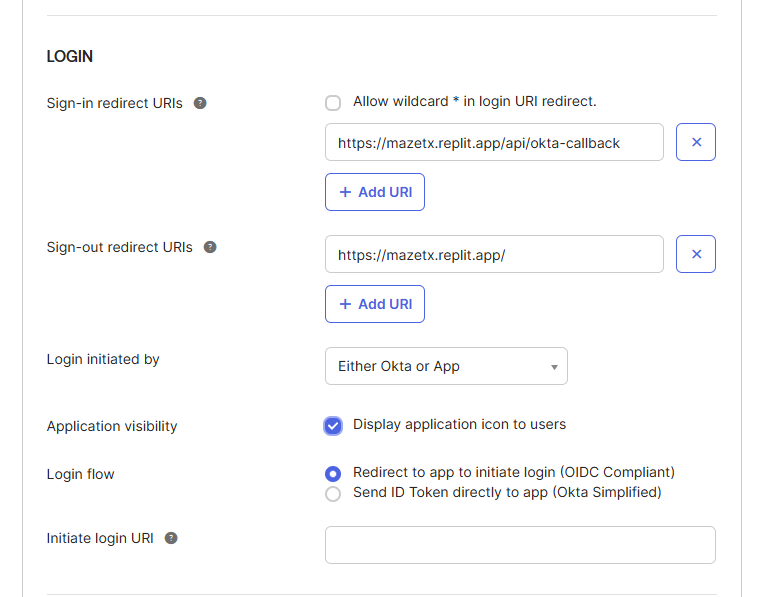
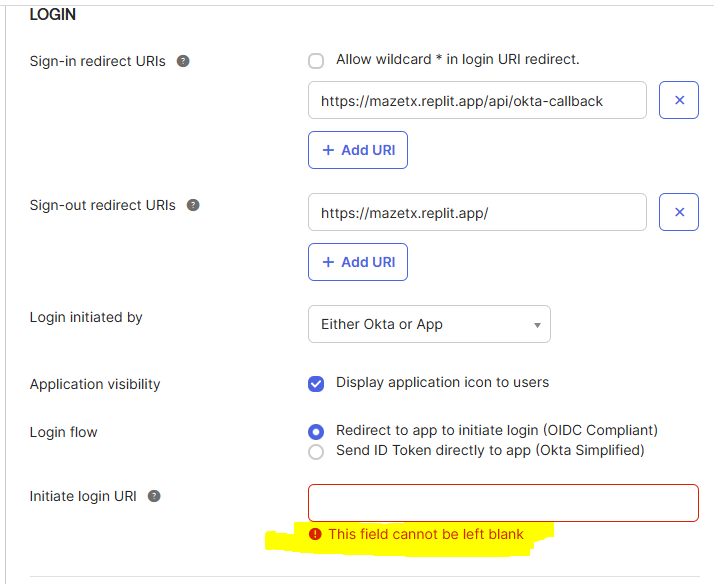
Improve landing page and streamline the single sign-on authentication flow
Updates the landing page with feature highlights and modifies the OKTA SSO login process by redirecting to the /api/login endpoint.

Replit-Commit-Author: Agent
Replit-Commit-Session-Id: 8936db9b-b075-46ff-a2f4-1b72c59773b4
Replit-Commit-Screenshot-Url: https://storage.googleapis.com/screenshot-production-us-central1/de508e81-2754-4e33-bdcb-fb7bc5438f94/3ca1f682-46b8-4d7c-acc1-3046d1fec444.jpg

diff --git a/client/src/pages/landing.tsx b/client/src/pages/landing.tsx
@@ -1,30 +1,11 @@
-import { useState } from "react";
 import { Button } from "@/components/ui/button";
-import { Input } from "@/components/ui/input";
-import { Label } from "@/components/ui/label";
-import { Card, CardContent, CardDescription, CardFooter, CardHeader, CardTitle } from "@/components/ui/card";
-import { useAuth } from "@/hooks/use-auth";
-import { Loader2 } from "lucide-react";
+import { Card, CardContent, CardDescription, CardHeader, CardTitle } from "@/components/ui/card";
+import { Shield, Users, Settings, BarChart3 } from "lucide-react";
 
 export default function Landing() {
-  const [username, setUsername] = useState("");
-  const [password, setPassword] = useState("");
-  const { loginMutation } = useAuth();
-
-  const handleLogin = (e: React.FormEvent) => {
-    e.preventDefault();
-    loginMutation.mutate({ username, password });
-  };
-
   const handleSSOLogin = () => {
-    // Direct OKTA authorization URL
-    const authUrl = `https://mazetx.okta.com/oauth2/default/v1/authorize?` +
-      `client_id=0oarrurqf9mvVKYRj4x7&` +
-      `response_type=code&` +
-      `scope=openid email profile&` +
-      `redirect_uri=${encodeURIComponent('https://mazetx.replit.app/api/okta-callback')}&` +
-      `state=oauth_state`;
-    window.location.href = authUrl;
+    // Redirect to the server's login endpoint which handles OKTA OAuth
+    window.location.href = '/api/login';
   };
 
   return (
@@ -38,96 +19,87 @@ export default function Landing() {
                 Maze User
                 <span className="text-blue-600 dark:text-blue-400"> Management</span>
               </h1>
-              <p className="text-xl text-gray-600 dark:text-gray-300">
-                Streamline your OKTA tenant administration with our comprehensive user management platform. Efficiently manage users, groups, and access controls with intelligent automation.
+              <p className="text-xl text-gray-600 dark:text-gray-300 leading-relaxed">
+                Comprehensive admin dashboard for advanced user authentication and access management with sophisticated monitoring capabilities.
               </p>
             </div>
-            
-            <div className="flex flex-wrap gap-6 text-sm text-gray-500 dark:text-gray-400">
-              <div className="flex items-center gap-2">
-                <div className="w-2 h-2 bg-green-500 rounded-full"></div>
-                <span>OKTA Integration</span>
+
+            {/* Feature Grid */}
+            <div className="grid grid-cols-2 gap-6">
+              <div className="flex items-center space-x-3">
+                <div className="flex-shrink-0">
+                  <Shield className="h-8 w-8 text-blue-600 dark:text-blue-400" />
+                </div>
+                <div>
+                  <h3 className="font-semibold text-gray-900 dark:text-white">OKTA Integration</h3>
+                  <p className="text-sm text-gray-600 dark:text-gray-300">SSO & Identity Management</p>
+                </div>
               </div>
-              <div className="flex items-center gap-2">
-                <div className="w-2 h-2 bg-blue-500 rounded-full"></div>
-                <span>Advanced Filtering</span>
+              
+              <div className="flex items-center space-x-3">
+                <div className="flex-shrink-0">
+                  <Users className="h-8 w-8 text-blue-600 dark:text-blue-400" />
+                </div>
+                <div>
+                  <h3 className="font-semibold text-gray-900 dark:text-white">User Operations</h3>
+                  <p className="text-sm text-gray-600 dark:text-gray-300">Complete CRUD Management</p>
+                </div>
               </div>
-              <div className="flex items-center gap-2">
-                <div className="w-2 h-2 bg-purple-500 rounded-full"></div>
-                <span>Secure Access</span>
+              
+              <div className="flex items-center space-x-3">
+                <div className="flex-shrink-0">
+                  <Settings className="h-8 w-8 text-blue-600 dark:text-blue-400" />
+                </div>
+                <div>
+                  <h3 className="font-semibold text-gray-900 dark:text-white">Access Control</h3>
+                  <p className="text-sm text-gray-600 dark:text-gray-300">Group & Permission Management</p>
+                </div>
               </div>
+              
+              <div className="flex items-center space-x-3">
+                <div className="flex-shrink-0">
+                  <BarChart3 className="h-8 w-8 text-blue-600 dark:text-blue-400" />
+                </div>
+                <div>
+                  <h3 className="font-semibold text-gray-900 dark:text-white">Activity Monitoring</h3>
+                  <p className="text-sm text-gray-600 dark:text-gray-300">30-Day Activity Logging</p>
+                </div>
+              </div>
+            </div>
+
+            <div className="bg-blue-50 dark:bg-blue-900/20 rounded-lg p-6">
+              <h3 className="font-semibold text-blue-900 dark:text-blue-300 mb-2">Key Features</h3>
+              <ul className="space-y-2 text-blue-800 dark:text-blue-200">
+                <li>• Advanced user search and filtering capabilities</li>
+                <li>• Employee Type to MTX group mapping</li>
+                <li>• Comprehensive profile field management</li>
+                <li>• Real-time synchronization with OKTA</li>
+                <li>• Responsive design with dark mode support</li>
+              </ul>
             </div>
           </div>
 
-          {/* Right Column - Login Form */}
+          {/* Right Column - SSO Login */}
           <div className="flex justify-center">
             <Card className="w-full max-w-md">
-              <CardHeader>
-                <CardTitle className="text-2xl text-center">Admin Login</CardTitle>
+              <CardHeader className="space-y-1">
+                <CardTitle className="text-2xl font-bold text-center">Access Dashboard</CardTitle>
                 <CardDescription className="text-center">
-                  Sign in to access the user management dashboard
+                  Sign in with your organization credentials to access the admin dashboard
                 </CardDescription>
               </CardHeader>
-              <form onSubmit={handleLogin}>
-                <CardContent className="space-y-4">
-                  <div className="space-y-2">
-                    <Label htmlFor="username">Username</Label>
-                    <Input
-                      id="username"
-                      type="text"
-                      value={username}
-                      onChange={(e) => setUsername(e.target.value)}
-                      placeholder="Enter your username"
-                      required
-                    />
-                  </div>
-                  <div className="space-y-2">
-                    <Label htmlFor="password">Password</Label>
-                    <Input
-                      id="password"
-                      type="password"
-                      value={password}
-                      onChange={(e) => setPassword(e.target.value)}
-                      placeholder="Enter your password"
-                      required
-                    />
-                  </div>
-                </CardContent>
-                <CardFooter className="flex flex-col space-y-3">
-                  <Button 
-                    type="submit" 
-                    className="w-full"
-                    disabled={loginMutation.isPending}
-                  >
-                    {loginMutation.isPending ? (
-                      <>
-                        <Loader2 className="mr-2 h-4 w-4 animate-spin" />
-                        Signing in...
-                      </>
-                    ) : (
-                      "Sign In"
-                    )}
-                  </Button>
-                  
-                  <div className="relative">
-                    <div className="absolute inset-0 flex items-center">
-                      <span className="w-full border-t" />
-                    </div>
-                    <div className="relative flex justify-center text-xs uppercase">
-                      <span className="bg-background px-2 text-muted-foreground">Or</span>
-                    </div>
-                  </div>
-                  
-                  <Button 
-                    type="button"
-                    variant="outline" 
-                    className="w-full"
-                    onClick={handleSSOLogin}
-                  >
-                    SSO Login
-                  </Button>
-                </CardFooter>
-              </form>
+              <CardContent className="space-y-4">
+                <Button 
+                  className="w-full h-12 text-lg"
+                  onClick={handleSSOLogin}
+                >
+                  Sign In with SSO
+                </Button>
+                
+                <div className="text-center text-sm text-muted-foreground">
+                  <p>Secure authentication through your organization's identity provider</p>
+                </div>
+              </CardContent>
             </Card>
           </div>
         </div>

diff --git a/server/routes.ts b/server/routes.ts
@@ -11,9 +11,13 @@ export async function registerRoutes(app: Express): Promise<Server> {
   // Setup OKTA SSO authentication
   await setupAuth(app);
 
-  // Auth routes are handled by setupLocalAuth
+  // OKTA Initiate Login URI endpoint - required for proper SSO flow
+  app.get("/api/sso-login", (req, res) => {
+    // Redirect to OKTA authentication
+    res.redirect("/api/login");
+  });
 
-  // Logout route is handled by setupLocalAuth
+  // Auth routes are handled by setupAuth
 
   // Get employee type group counts from OKTA
   app.get("/api/employee-type-counts", isAuthenticated, async (req, res) => {
